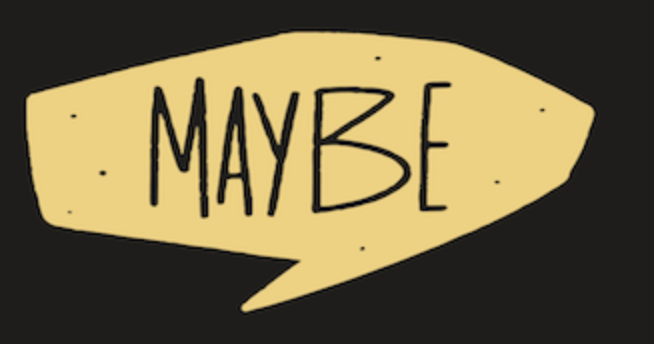
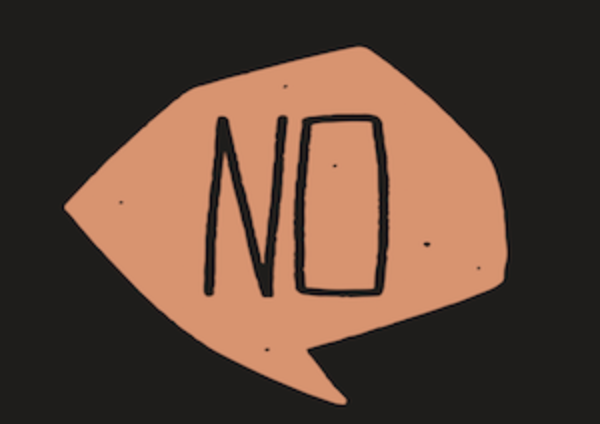
update

diff --git a/index.html b/index.html
@@ -75,7 +75,7 @@ Your browser does not support the audio element.
       if(typeof(Storage) !== "undefined") {
         if (localStorage.clickcount) {
           localStorage.clickcount = Number(localStorage.clickcount)+1;
-          changeChoice(localStorage.clickcount);
+          changeChoice2(localStorage.clickcount);
           document.getElementById("madTitle").innerHTML = "u just finished listening,<br/> r u still mad mad?<br/>u r a mad chuchu<br/> and u have clicked " + localStorage.clickcount + " times.<br/><br/> So are we cool now?";
           localStorage.again = 1;
         }
@@ -103,11 +103,13 @@ Your browser does not support the audio element.
       if(typeof(Storage) !== "undefined") {
         if (localStorage.clickcount) {
           localStorage.clickcount = Number(localStorage.clickcount)+1;
-          changeChoice(localStorage.clickcount);
+          
           if (localStorage.again){
             document.getElementById("madTitle").innerHTML = "u just finished listening,<br/> r u still mad mad?<br/>u r a mad chuchu<br/> and u have clicked " + localStorage.clickcount + " times.<br/><br/> So are we cool now?";
+            changeChoice2(localStorage.clickcount);
           } else {
             console.log('else');
+            changeChoice(localStorage.clickcount);
           }
         } else {
           localStorage.clickcount = 1;
@@ -129,7 +131,16 @@ Your browser does not support the audio element.
         document.getElementById('choice').src= "asserts/choices/c1.png";
       }
     }
-
+    
+    function changeChoice2 (n){
+      var index = Number(n) % 3;
+      var imageUrl = "asserts/choices/c"+index.toString()+".png";
+      if (imageUrl){
+        document.getElementById('choice').src= imageUrl;
+      } else {
+        document.getElementById('choice').src= "asserts/choices/c1.png";
+      }
+    }
      var check = true;
 
     function changeStatus(){
